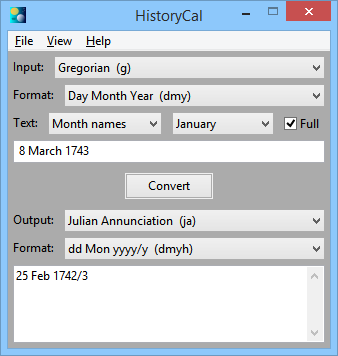
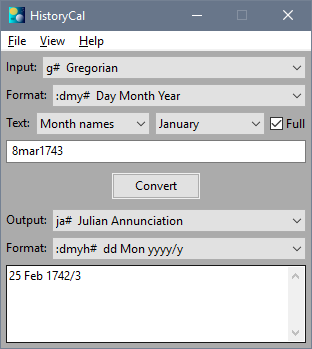
Website, add news about new version.
Update some screen shots. Other minor edits.

diff --git a/website/man/script/index.htm b/website/man/script/index.htm
@@ -66,8 +66,8 @@
  The script is designed to serve two main purposes.
 </p>
 <ul>
+ <li>Define the calendar schemes and their associated grammar.</li>
  <li>Calculate and output complex calendar expressions.</li>
- <li>Define the calendar schemes and associated grammars that can be used</li>
 </ul>
 <p>
  The scripts for the default calendar definitions are shown in the
@@ -98,8 +98,7 @@ writeln "Hello world!";
 <h3 class='clear'>Comments and White Space</h3>
 <p>
  The first line in the above script is a single line comment.
- Every thing from the "//" token to the end of the line is ignored
- (or alternatively, treated as white space).
+ Every thing from the "//" token to the end of the line taken to be a comment.
 </p>
 <p>
  Multi-line comments can be included by placing them between the
@@ -129,7 +128,7 @@ writeln "Hello world!";
  <li><b>Field</b> - An integer number, a date or part of a date.</li>
  <li><b>Range</b> - One or more consecutive dates.</li>
  <li><b>RList</b> - A <a href='../calculate.htm#well-ordered'>well-ordered list</a> of dates.</li>
- <li><b>Record</b> - An sequence of Fields which describe a date.</li>
+ <li><b>Record</b> - A scheme code and sequence of Fields which describe a date.</li>
  <li><b>Boolean</b> - The value <b>true</b> or <b>false</b>.</li>
 </ul>
 <p>
@@ -147,15 +146,15 @@ writeln "Hello world!";
 <tr><th colspan='3'>Statement List</th></tr>
 <tr><th>Statement</th><th>Use</th><th>Example</th></tr>
 <tr><td class='code'>clear</td><td>Delete all variables.</td><td class='example'>clear;</td></tr>
-<tr><td class='code'>do</td><td>Run script until a condition is met.</td><td class='example'>do while y <= 2015
+<tr><td class='code'>do</td><td>Run script until a condition is met.</td><td class='example'>do while y &lt;= 2015
   writeln "1 Jan " + y;
   y += 1;
 loop</td></tr>
 <tr><td class='code'>end</td><td>Stop running the script.</td><td class='example'>end;</td></tr>
-<tr><td class='code'>format</td><td>Define a Format for a grammar</td><td class='example'>format "j:ydm", "(Year)| (Day)| (Month:m)";</td></tr>
-<tr><td class='code'>grammar</td><td>Define a Grammar for a calendar.</td><td class='example'>grammar "J" {
-  inherit "j";
-  format "ydm", "(Year)| (Day)| (Month:m)";
+<tr><td class='code'>format</td><td>Define a Format for a grammar</td><td class='example'>format j:ydm, "(Year)| (Day)| (Month:m)";</td></tr>
+<tr><td class='code'>grammar</td><td>Define a Grammar for a calendar.</td><td class='example'>grammar J {
+  inherit j;
+  format ydm, "(Year)| (Day)| (Month:m)";
 }</td></tr>
 <tr><td class='code'>if</td><td>Run code depending on condition.</td><td class='example'>if value = today
   write "&lt;b&gt;" + str value + "&lt;/b&gt;";
@@ -164,12 +163,12 @@ else
 endif</td></tr>
 <tr><td class='code'>let</td><td>Initialise or change a variable.</td><td class='example'>let d = 1;</td></tr>
 <tr><td class='code'>mark</td><td>Set a named mark in the script.</td><td class='example'>mark "test1";</td></tr>
-<tr><td class='code'>scheme</td><td>Define a calendar Scheme.</td><td class='example'>scheme "j" {
+<tr><td class='code'>scheme</td><td>Define a calendar Scheme.</td><td class='example'>scheme j {
   name "Julian";
   base julian;
 }</td></tr>
-<tr><td class='code'>set</td><td>Set a global default setting.</td><td class='example'>set output "g:iso";</td></tr>
-<tr><td class='code'>vocab</td><td>Define a Vocabulary for a calendar field.</td><td class='example'>vocab "ce" {
+<tr><td class='code'>set</td><td>Set a global default setting.</td><td class='example'>set output g:iso;</td></tr>
+<tr><td class='code'>vocab</td><td>Define a Vocabulary for a calendar field.</td><td class='example'>vocab ce {
   name "Historic Era";
   tokens {
     0, "Before Christ", "BC";

diff --git a/website/new/news.htm b/website/new/news.htm
@@ -39,8 +39,17 @@
 
 <div id="content">
 
-<h2>19th November 2015</h2>
+<h2>27th June 2016</h2>
 <img class='scrnprnt' src='../sp/sp8.png' alt='today-is.hcs script output' />
+<p>
+ Alpha version 0.0.6 of HistoryCal for Windows is released.
+ This version adds the ISO:8601 Week and Ordinal day calendar schemes. It also extends the formatting to cover the ISO standard. Work has also started to include the proposed EDTF extensions to the ISO:8601.
+</p>
+<p>
+ A number of bugs have been fixed, including the one which affected non-ascii characters in the date text.
+</p>
+
+<h2>19th November 2015</h2>
 <p>
  Alpha version 0.0.5 of HistoryCal for Windows is released.
  This version adds the Common Era Julian and Gregorian calendars and the Astronomical Year calendar, a hybrid using the Julian and Gregorian schemes.</p>

diff --git a/website/cal/defs/isow.htm b/website/cal/defs/isow.htm
@@ -63,7 +63,7 @@
 </p>
 <p>
 </p>
-<p style='display:inline;'>
+<div class='p'>
  The <b>Epoch</b> is set at
  <table class='rec-value'>
    <tr><td rowspan='2' class='sig'>isow</td><th>year</th><th>week</th><th>wday</th></tr>
@@ -79,7 +79,7 @@
   <tr><td rowspan='2' class='sig'>jdn</td><th>day</th></tr>
   <tr class='value'><td>1721426</td></tr>
  </table>.
-</p>
+</div>
 
 <h3>Script</h3>
 <table class='code'>
